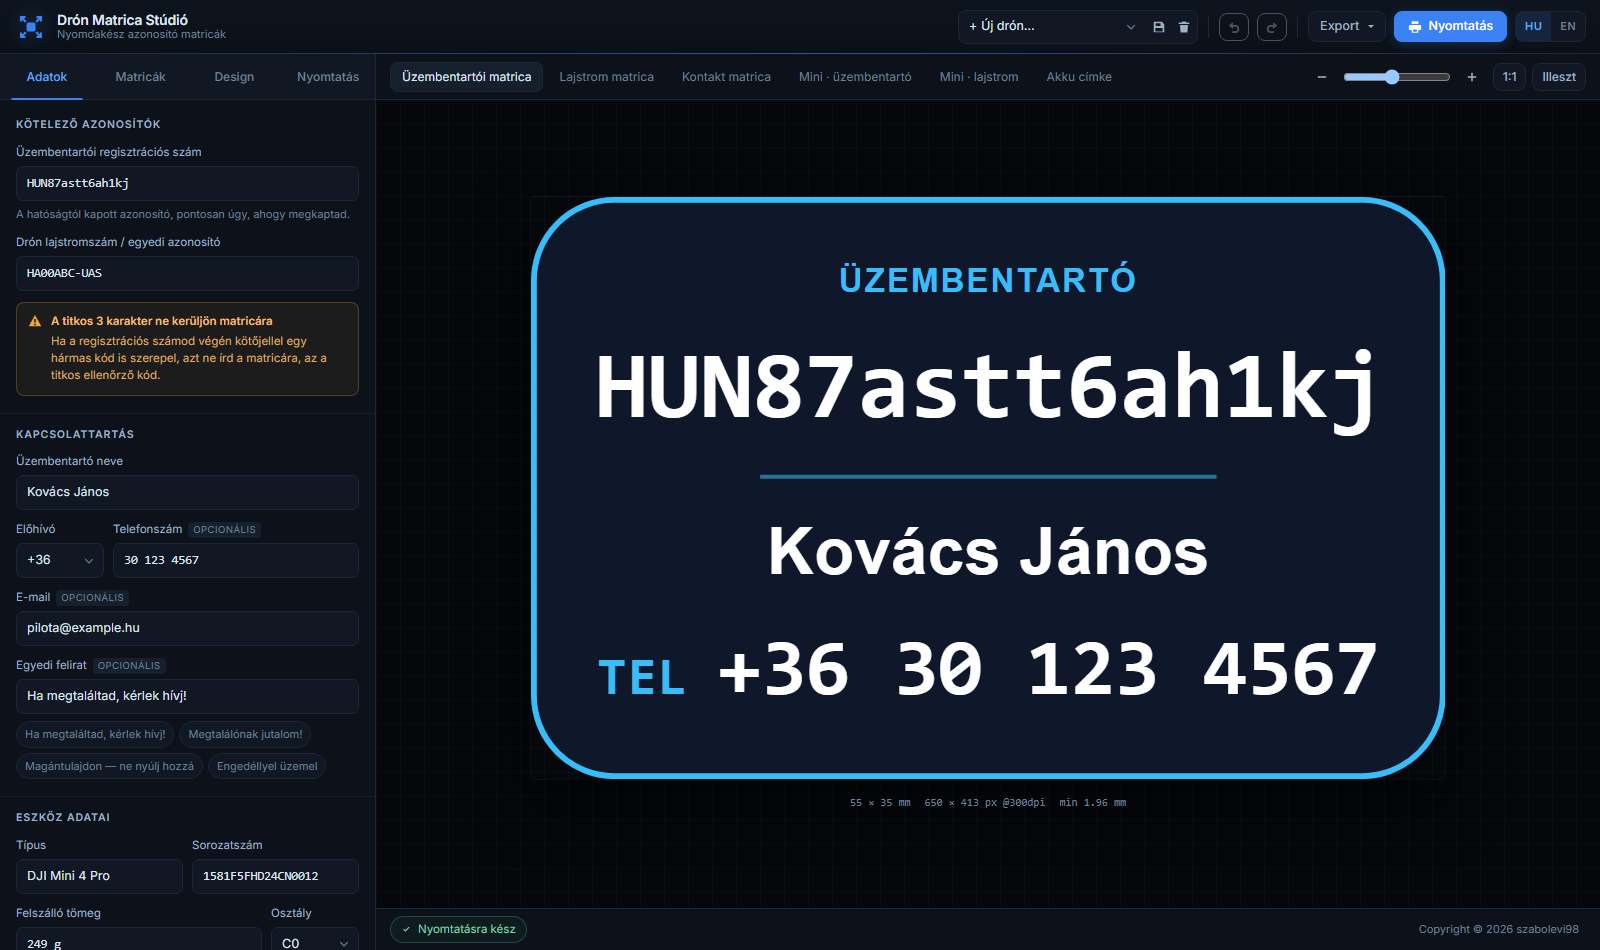
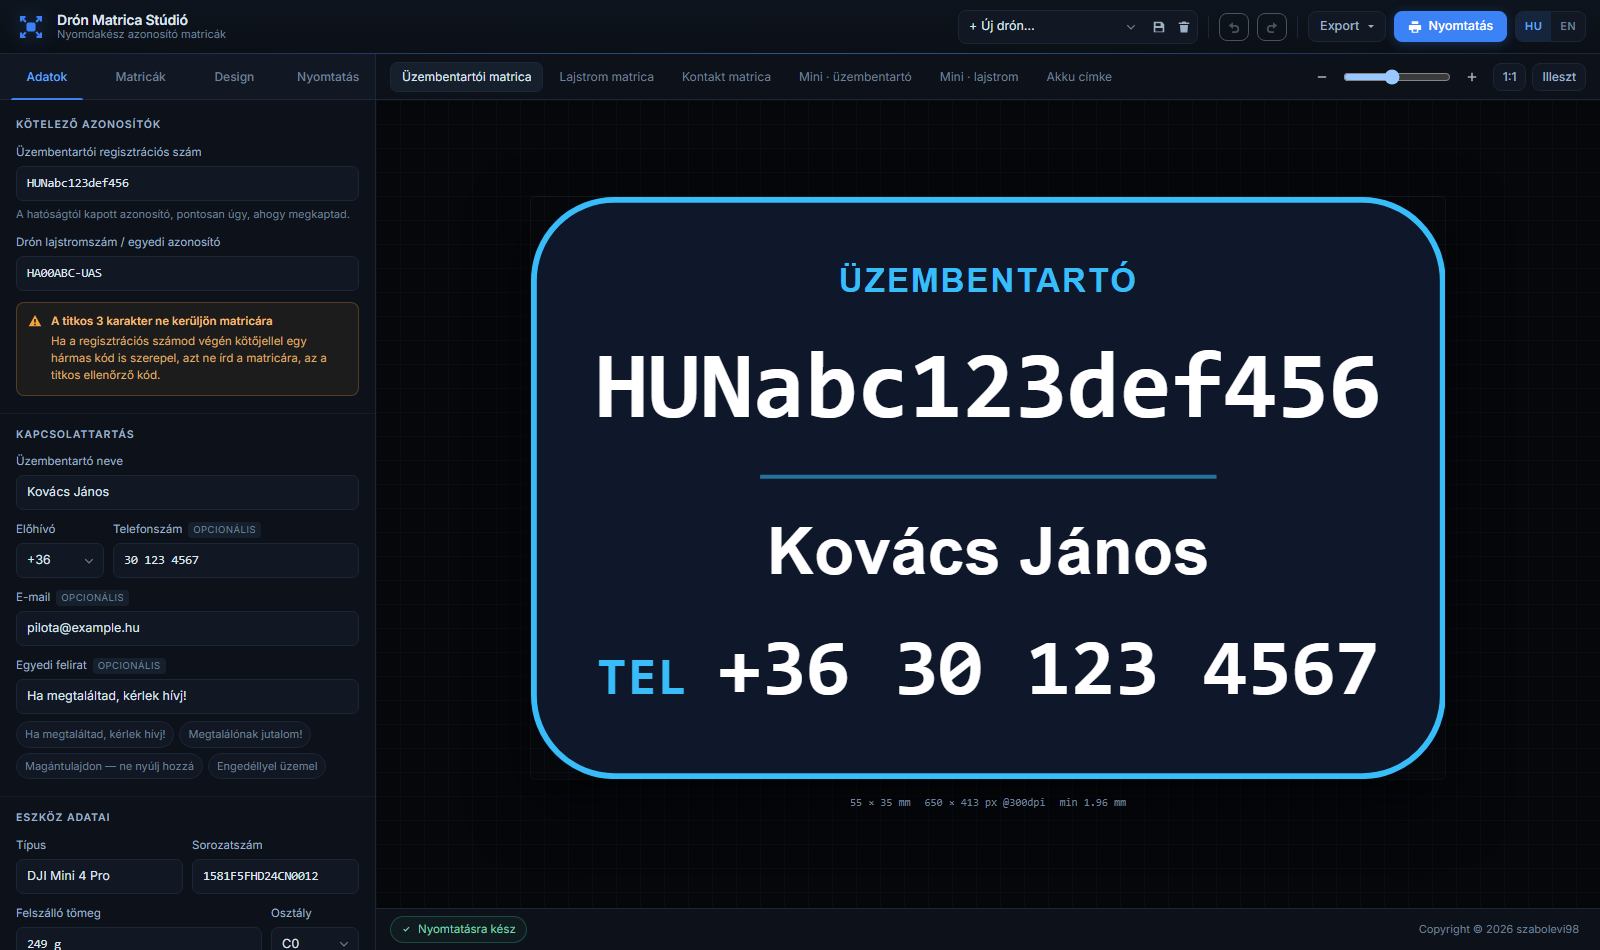
Beszédesebb minta üzembentartói azonosító
HUN87astt6ah1kj helyett HUNabc123def456 a mintaadatokban és a placeholderben
is, így ránézésre látszik a felépítése.

Changed region(s): [[0.4688, 0.3663, 0.875, 0.4579], [0.0312, 0.1832, 0.0938, 0.2137]]

diff --git a/index.html b/index.html
@@ -94,7 +94,7 @@
           <div class="group-head"><h3 data-i18n="data.required">Kötelező azonosítók</h3></div>
           <div class="field">
             <label for="f-operatorId" data-i18n="f.operatorId">Üzembentartói regisztrációs szám</label>
-            <input type="text" id="f-operatorId" class="form-control mono" placeholder="HUN0123456789abc" autocomplete="off" spellcheck="false">
+            <input type="text" id="f-operatorId" class="form-control mono" placeholder="HUNabc123def456" autocomplete="off" spellcheck="false">
             <div class="hint" id="hint-operatorId"></div>
           </div>
           <div class="field">

diff --git a/js/main.js b/js/main.js
@@ -18,7 +18,7 @@ const $ = id => document.getElementById(id);
 const MM_PX = 96 / 25.4;
 
 const SAMPLE = {
-  operatorId: 'HUN87astt6ah1kj',
+  operatorId: 'HUNabc123def456',
   regId: 'HA00ABC-UAS',
   owner: 'Kovács János',
   phone: '30 123 4567',
